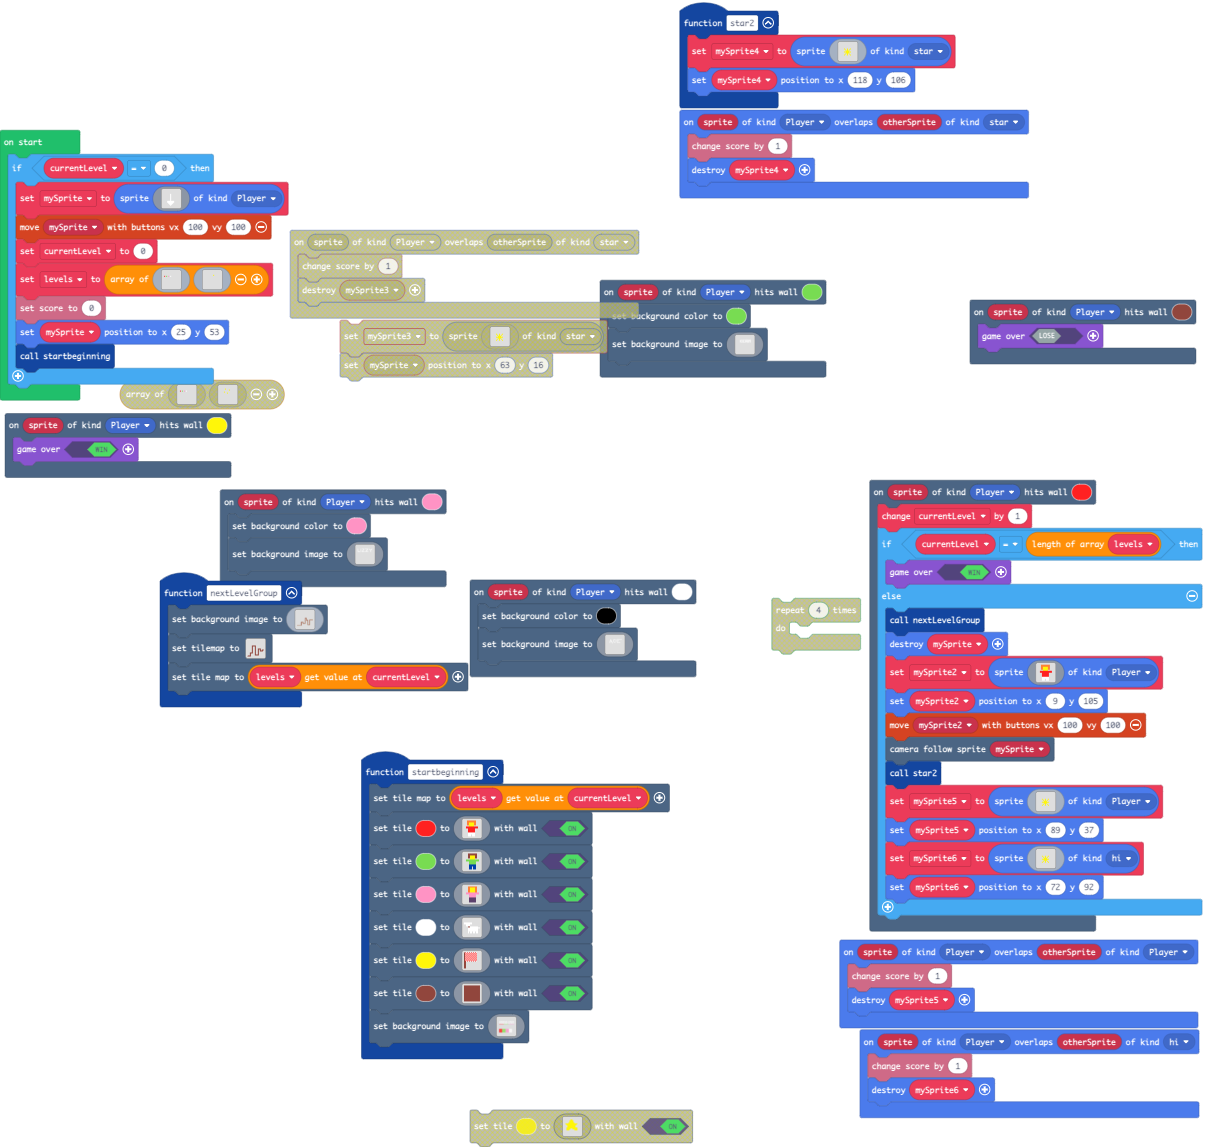
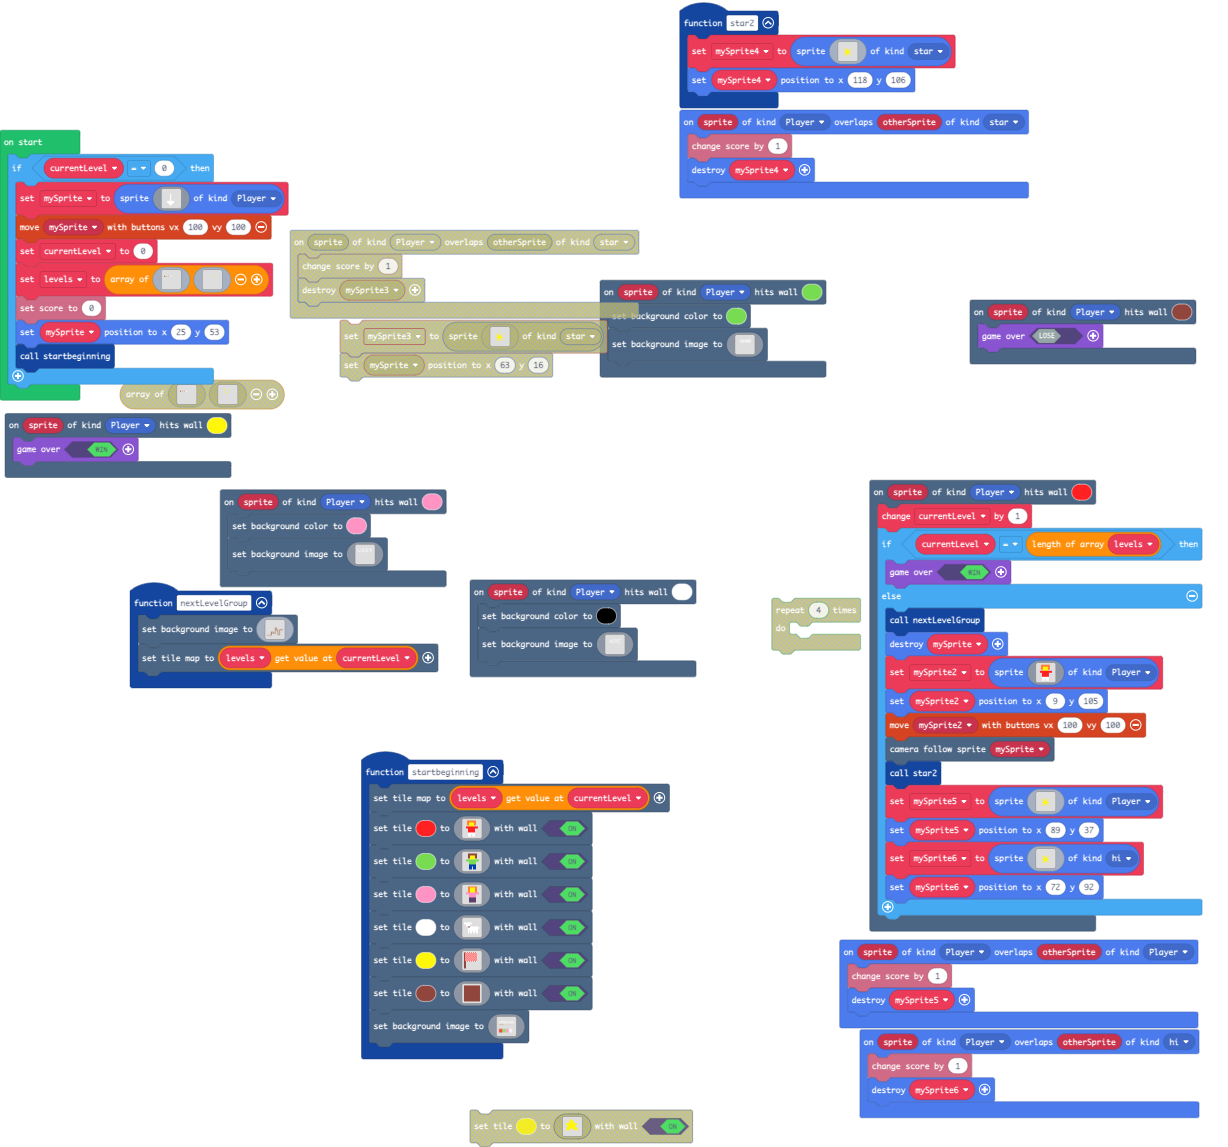
Update main.blocks, main.ts, tilemap.g.jres, tilemap.g.ts

Changed region(s): [[0.0928, 0.4882, 0.4023, 0.6408]]

diff --git a/tilemap.g.ts b/tilemap.g.ts
@@ -121,6 +121,44 @@ namespace myTiles {
 . . 2 . . . . 2 2 2 2 . . . . . 
 2 2 2 . . . . . . . . . . . . . 
 `, [myTiles.transparency16,myTiles.tile1], TileScale.Sixteen);
+            case "level7":
+            case "level7":return tiles.createTilemap(hex`1000100000000000000101010101010000000000000000000100000000000001000000000000000100000000000000000100000000010101010101010101010101010000000001000000000000000001000100000000010000000000000000010001000000010101010001010101010100010000010001000001010000000101010000000100010000010100000100000100000001000100000101010101010101000000010001000000010000010000000100000100000101010101010000000101000001000000000001010000000101000000010100000101000101010100000000000000010100000001000000000000000000000000000000010000000000000000`, img`
+. . . . . . . . . . . . . . . . 
+. . . . . . . . . . . . . . . . 
+. . . . . . . . . . . . . . . . 
+. . . . . . . . . . . . . . . . 
+. . . . . . . . . . . . . . . . 
+. . . . . . . . . . . . . . . . 
+. . . . . . . . . . . . . . . . 
+. . . . . . . . . . . . . . . . 
+. . . . . . . . . . . . . . . . 
+. . . . . . . . . . . . . . . . 
+. . . . . . . . . . . . . . . . 
+. . . . . . . . . . . . . . . . 
+. . . . . . . . . . . . . . . . 
+. . . . . . . . . . . . . . . . 
+. . . . . . . . . . . . . . . . 
+. . . . . . . . . . . . . . . . 
+`, [myTiles.transparency16,myTiles.tile1], TileScale.Sixteen);
+            case "level8":
+            case "level8":return tiles.createTilemap(hex`1000100000000000000000000000000000000000000000000000000000000000000000000000000000000000000000000000000000000000000000000000000000000000000000000000000000000000000000000000000000000000000000000000000000000000000000000000000000000000000000000000000000000000000000000000000000000000000000000000000000000000000000000000000000000000000000000000000000000000000000000000000000000000000000000000000000000000000000000000000000000000000000000000000000000000000000000000000000000000000000000000000000000000000000000000000000000000`, img`
+. . . . . . . . . . . . . . . . 
+. . . . . . . . . . . . . . . . 
+. . . . . . . . . . . . . . . . 
+. . . . . . . . . . . . . . . . 
+. . . . . . . . . . . . . . . . 
+. . . . . . . . . . . . . . . . 
+. . . . . . . . . . . . . . . . 
+. . . . . . . . . . . . . . . . 
+. . . . . . . . . . . . . . . . 
+. . . . . . . . . . . . . . . . 
+. . . . . . . . . . . . . . . . 
+. . . . . . . . . . . . . . . . 
+. . . . . . . . . . . . . . . . 
+. . . . . . . . . . . . . . . . 
+. . . . . . . . . . . . . . . . 
+. . . . . . . . . . . . . . . . 
+`, [myTiles.transparency16], TileScale.Sixteen);
         }
         return null;
     })

diff --git a/main.ts b/main.ts
@@ -126,7 +126,6 @@ function nextLevelGroup () {
         eeeeeeeeeeeeeeeeeeeeeeeeeeeeeeeeeeeeeeeeeeeeeee.................................................................................................................
         eeeeeeeeeeeeeeeeeeeeeeeeeeeeeeeeeeeeeeeeeeeeeee.................................................................................................................
         `)
-    tiles.setTilemap(tilemap`level6`)
     scene.setTileMap(levels[currentLevel])
 }
 scene.onHitTile(SpriteKind.Player, 7, function (sprite) {
